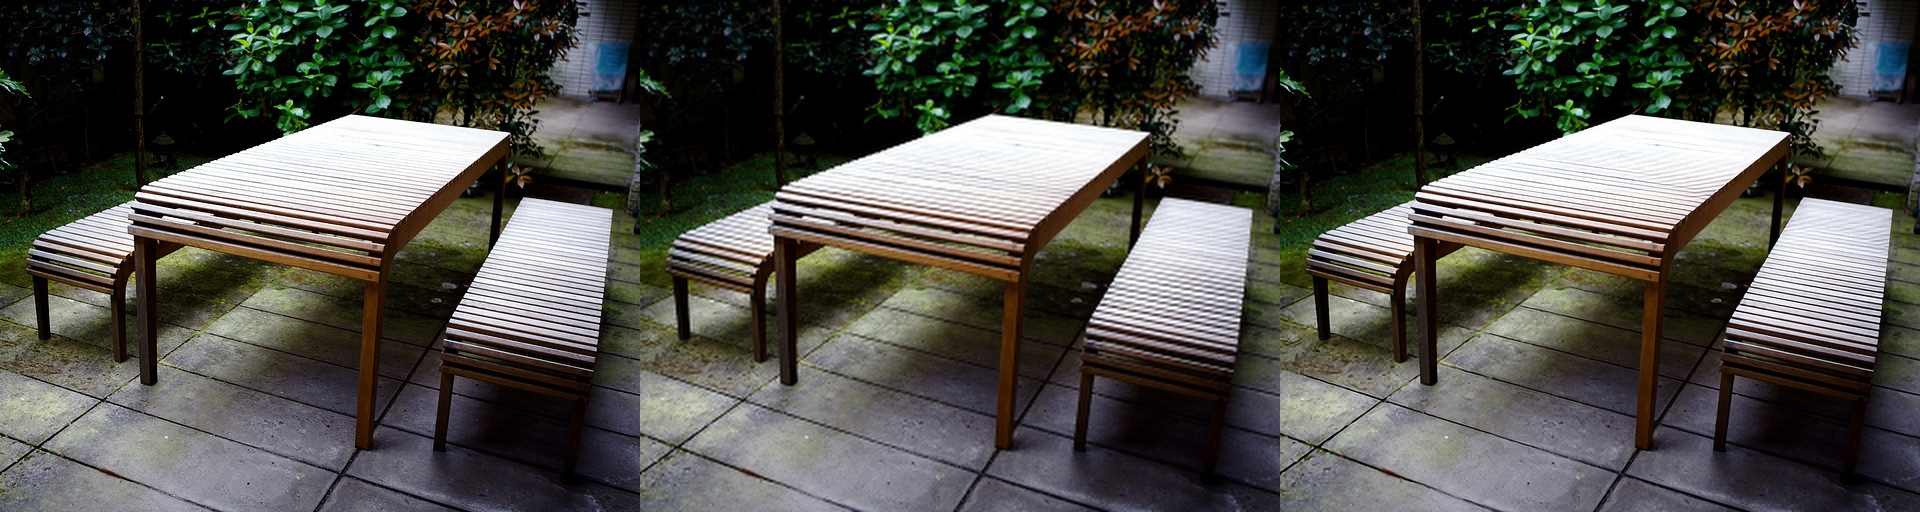
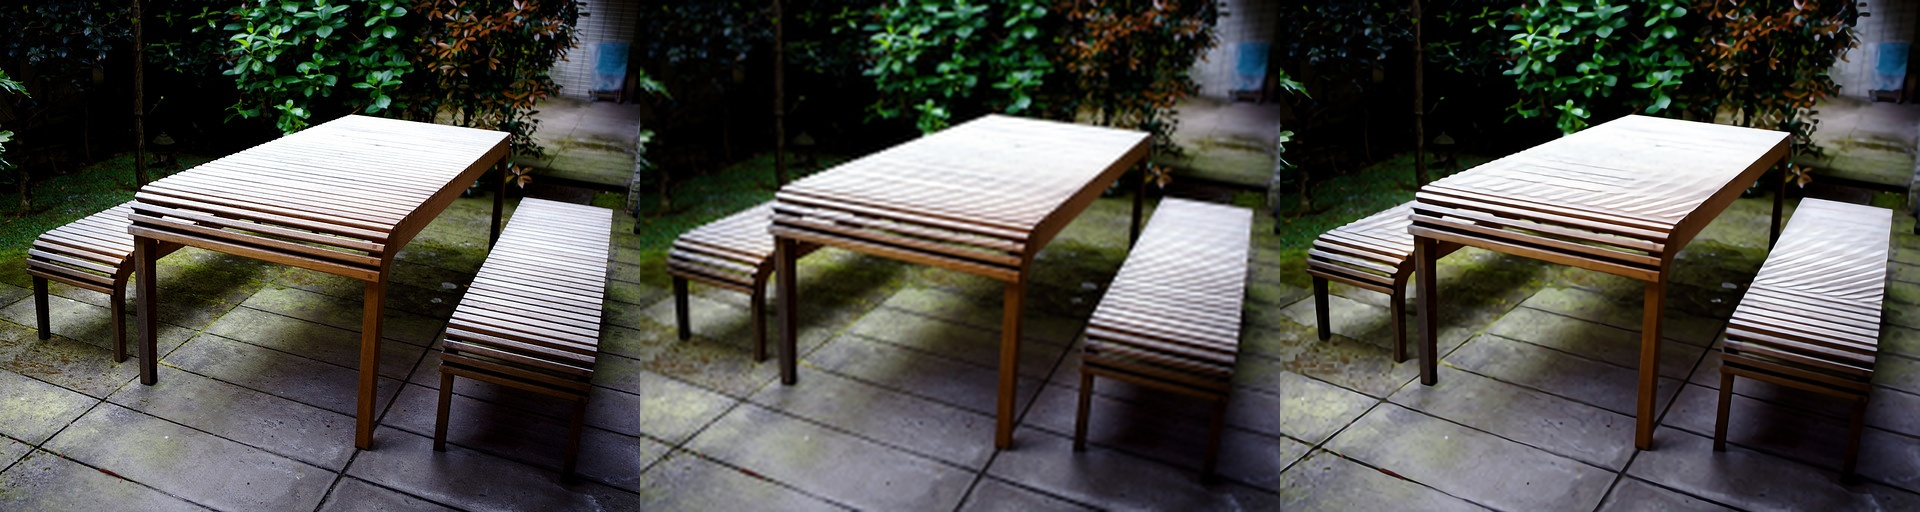
update

diff --git a/output.py b/output.py
@@ -73,4 +73,4 @@ def inference(model, scale=2, summary=True):
 
 if __name__ == "__main__":
     model = load_model("weights/LARGE_BEST.h5")
-    inference(model, scale=2)
+    evaluate(model, scale=3)
